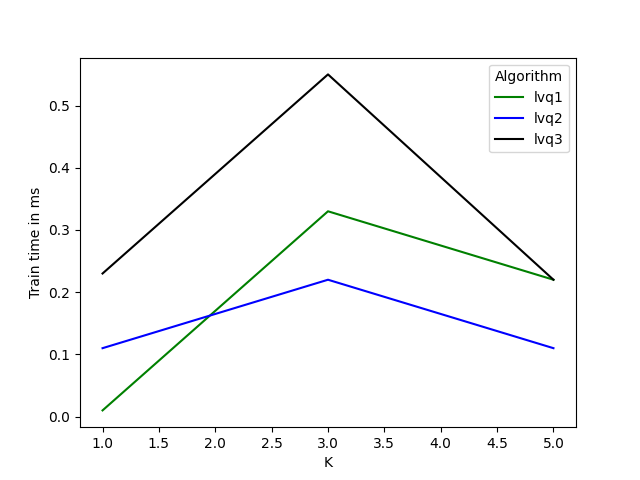
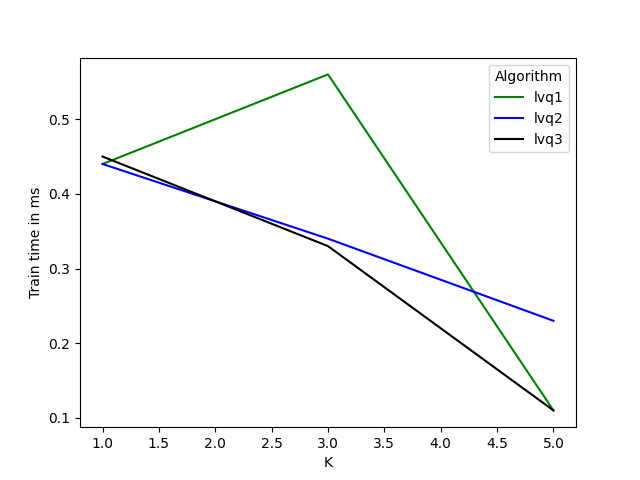
Fixing LVQ1 and generating results again

diff --git a/Lista2/lvq1.py b/Lista2/lvq1.py
@@ -9,21 +9,21 @@ def gen_prototypes(x_train, y_train):
     prototypes_x, prototypes_y, x_train, y_train = random_prototypes(x_train, y_train)
 
     classifier = KNeighborsClassifier(n_neighbors=1, weights='uniform')
-    classifier.fit(x_train, y_train)
+    classifier.fit(prototypes_x, prototypes_y)
 
     for _ in range(num_of_prot_training_epochs):
-        predicted_classes = classifier.predict(prototypes_x)
-        real_instances = classifier.kneighbors(X=prototypes_x, n_neighbors=1, return_distance=False)
-        for i in range(len(prototypes_x)):
-            prototype = prototypes_x[i]
-            prototype_class = prototypes_y[i]
+        predicted_classes = classifier.predict(x_train)
+        real_instances = classifier.kneighbors(X=x_train, n_neighbors=1, return_distance=False)
+        for i in range(len(x_train)):
+            real_instance = x_train[i]
+            real_instance_class = y_train[i]
 
             # Descobrindo qual seria a classe do protótipo ao usar knn pra classificá-lo
-            predicted_class = predicted_classes[i]
-            real_instance_index = real_instances[i]
-            real_instance = x_train[real_instance_index][0]
+            prototype_class = predicted_classes[i]
+            prototype_index = real_instances[i]
+            prototype = prototypes_x[prototype_index][0]
 
-            is_same_class = prototype_class == predicted_class
+            is_same_class = prototype_class == real_instance_class
             
             # Atualizando o protótipo baseado nas classes e na distância
             update_prototype(prototype, real_instance, is_same_class, weight)
